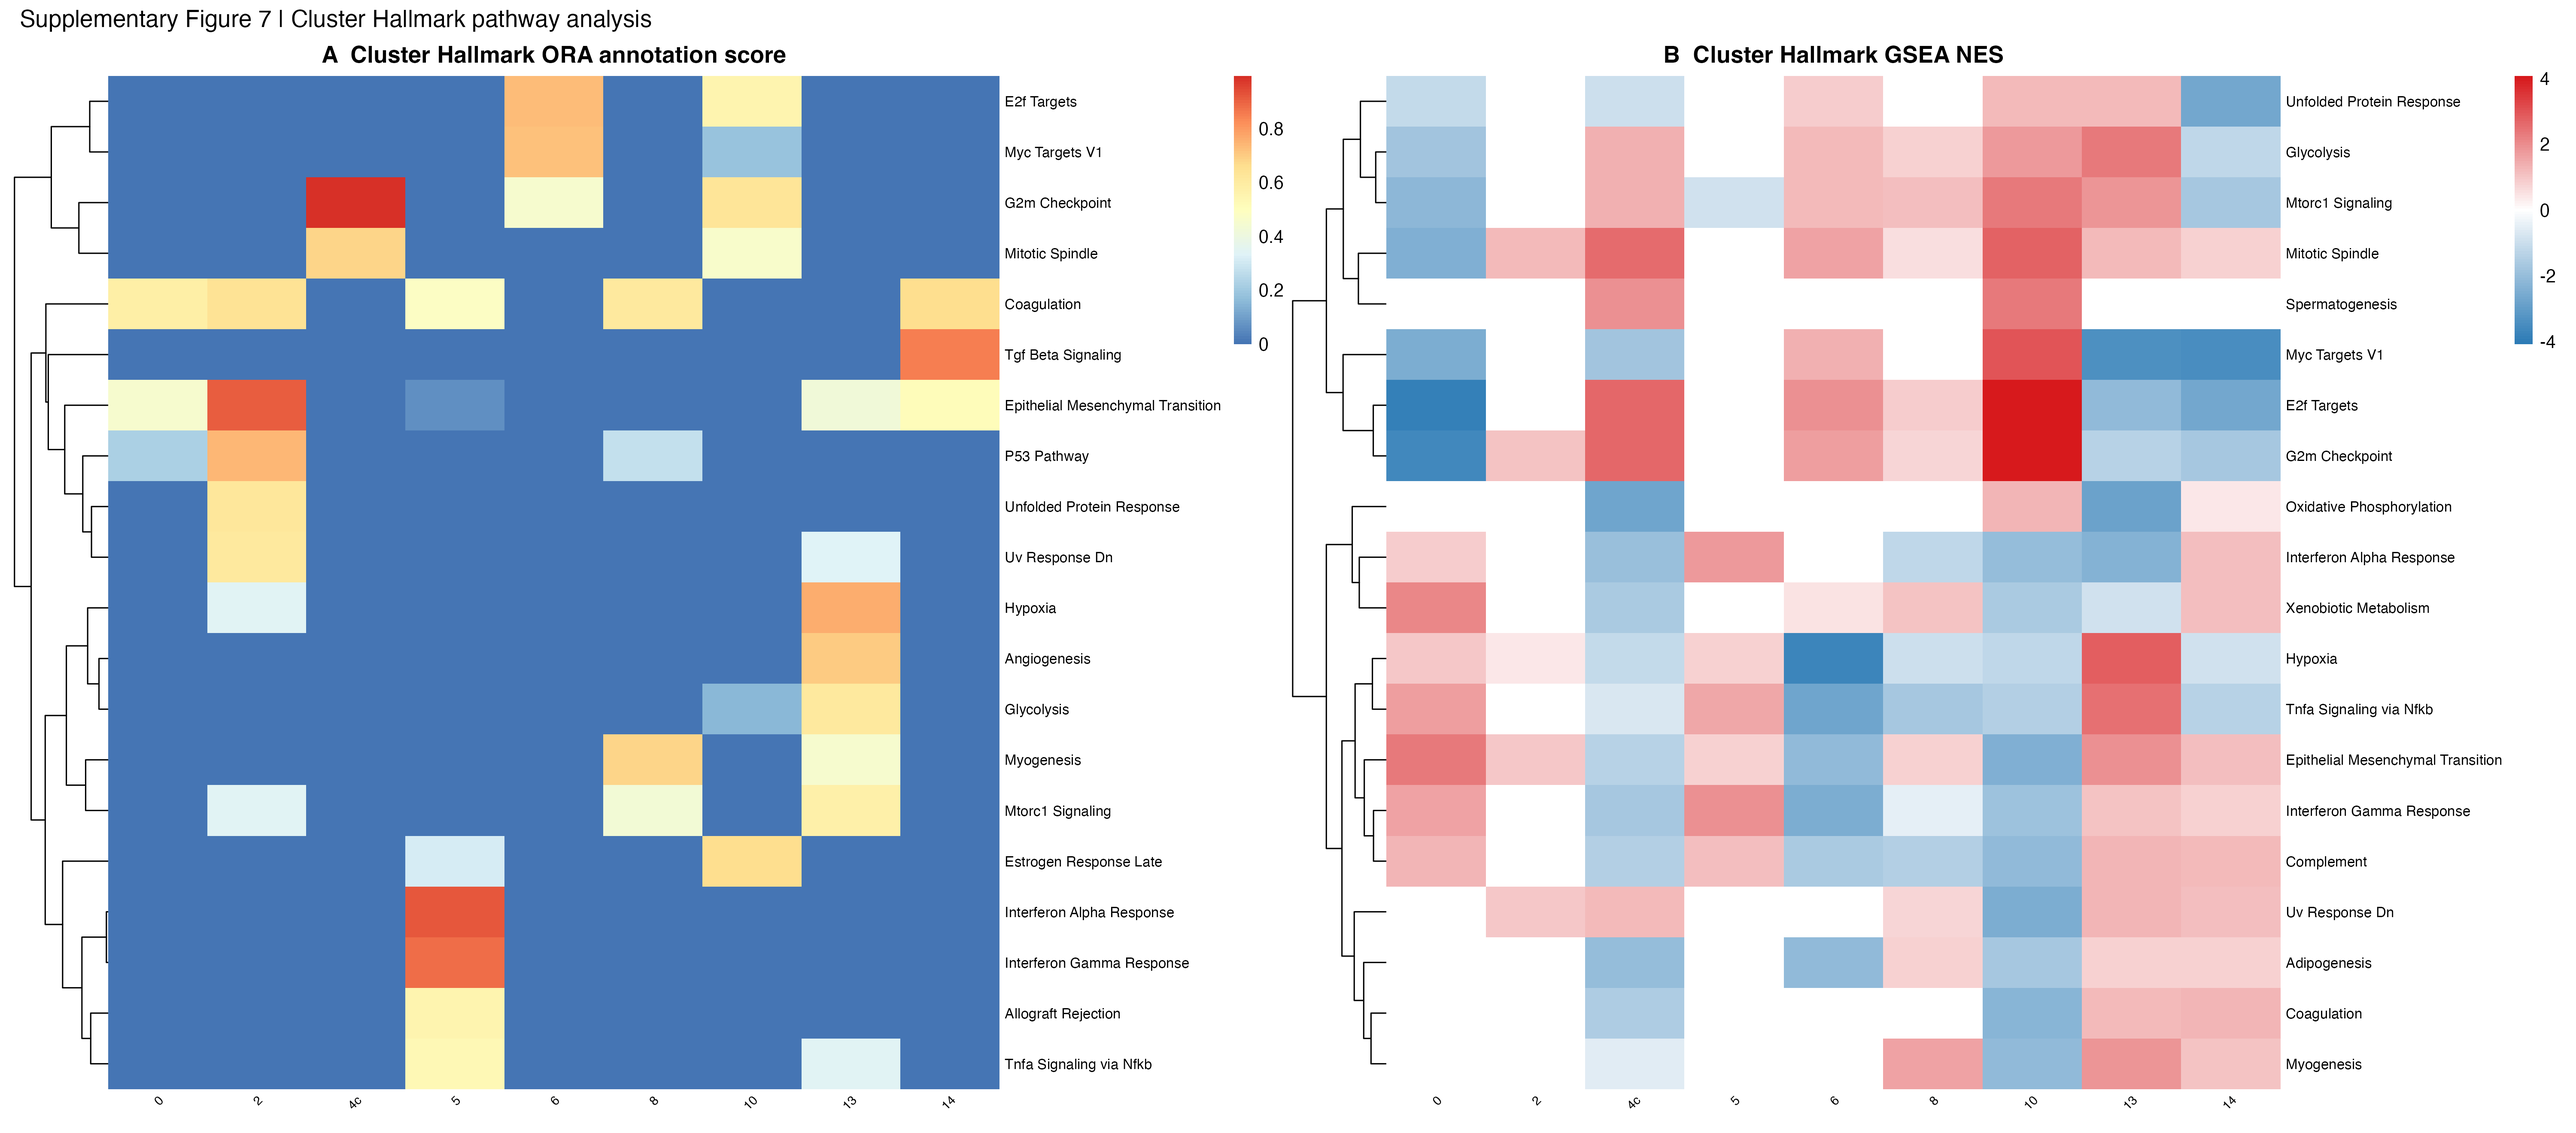
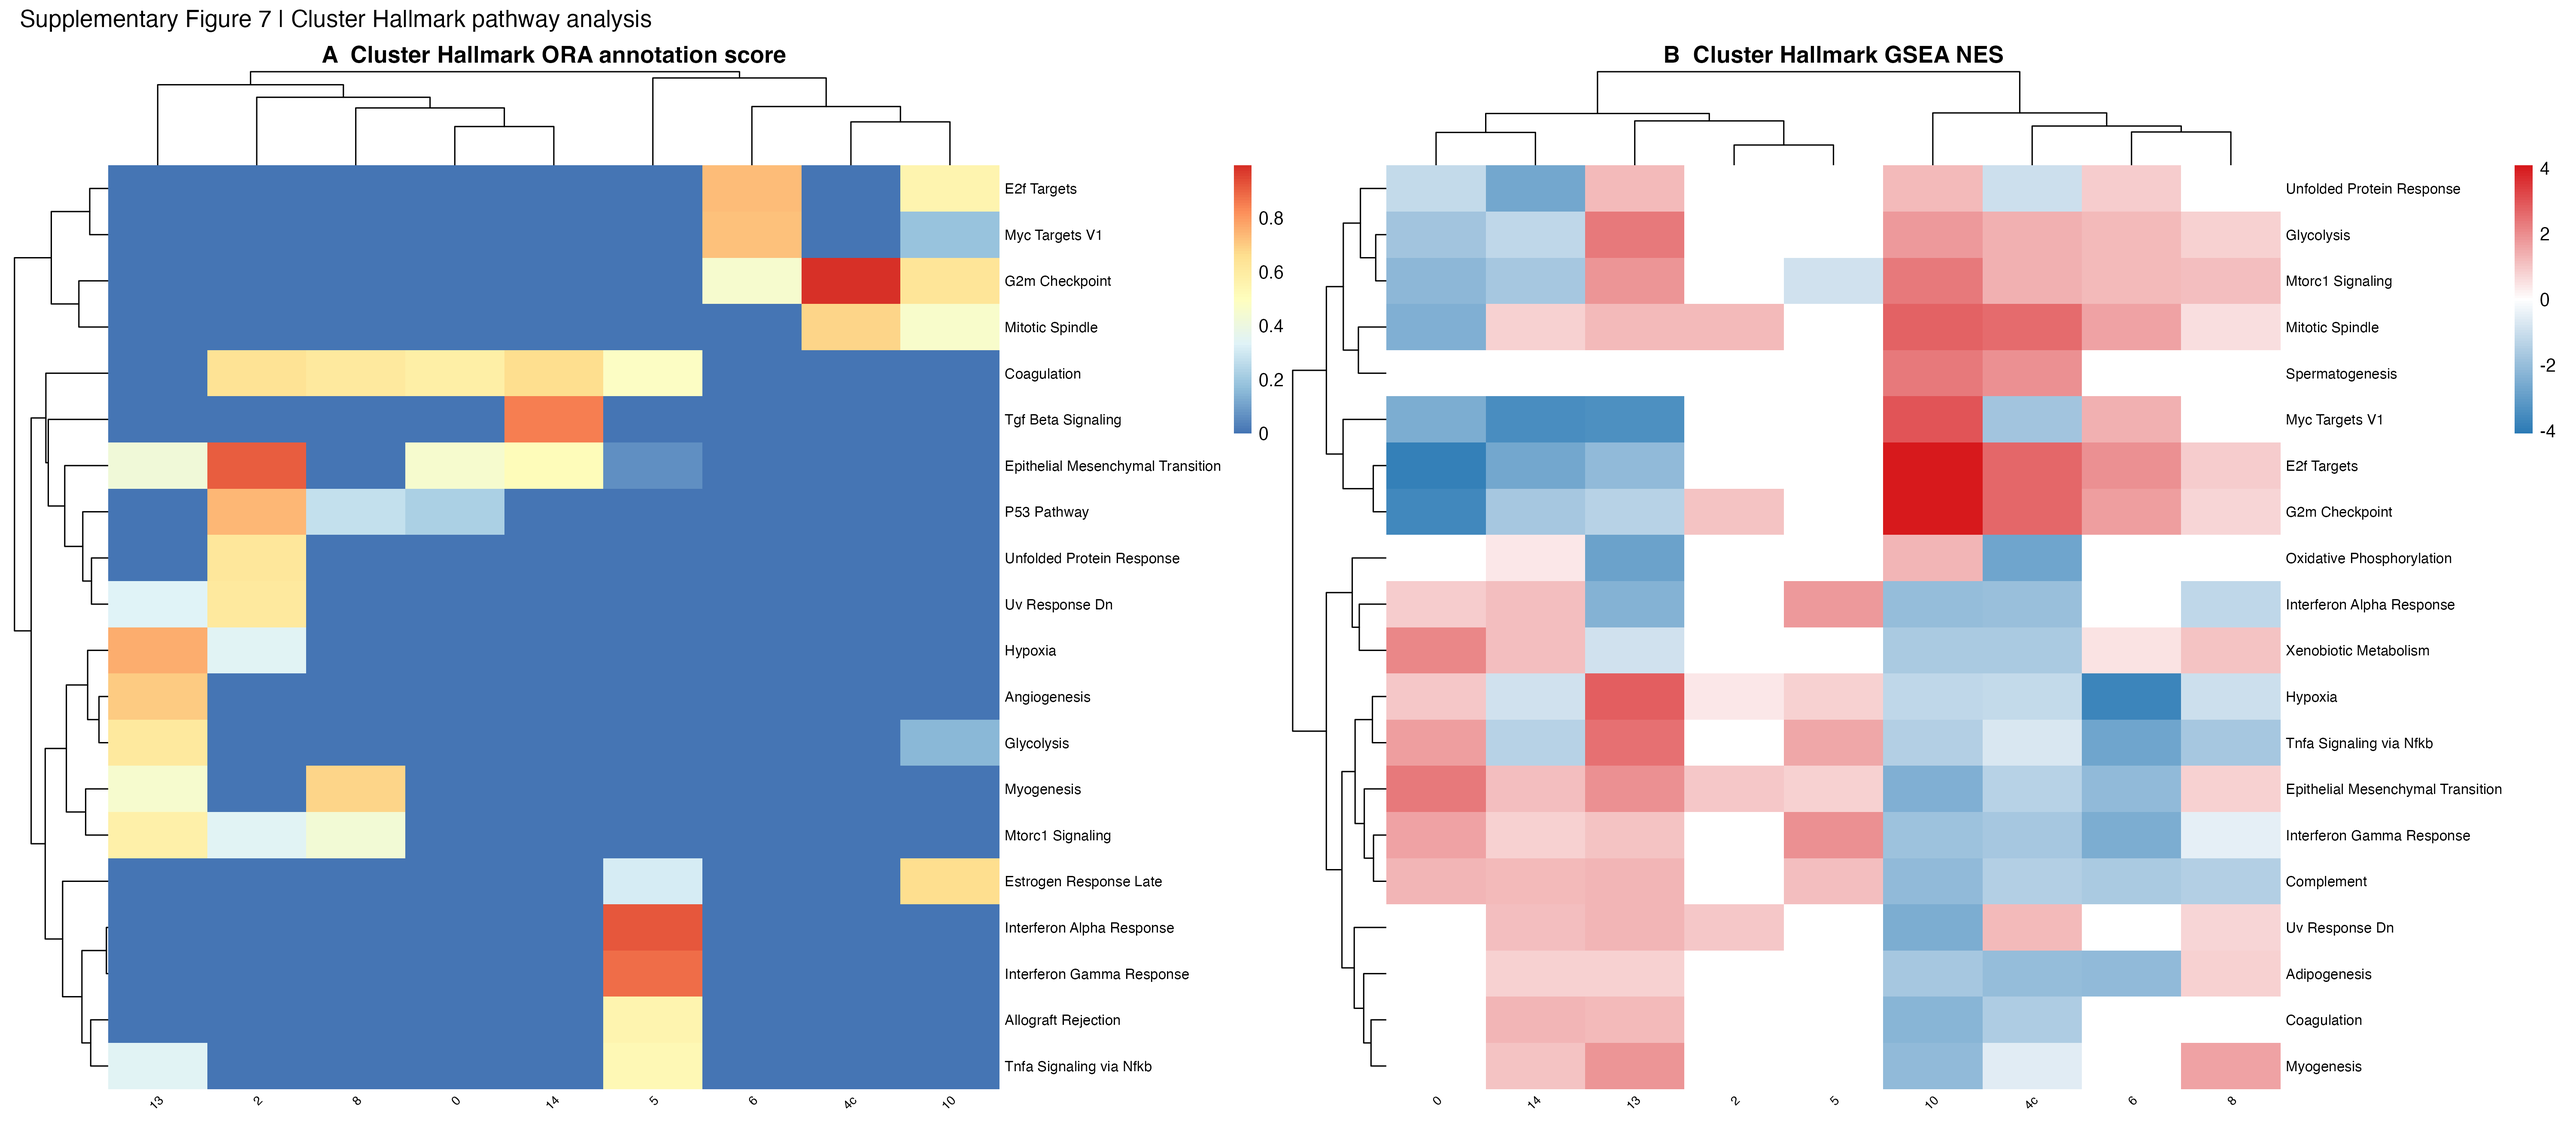
fix(si7): cluster heatmap rows and columns

diff --git a/Code/in-vivo/SI_figures/README.md b/Code/in-vivo/SI_figures/README.md
@@ -93,10 +93,11 @@ finite matrix values, and portable SHA-256 manifest.
 The renderer writes the exact composition estimates and test results to
 `metadata/normalized_composition_plot_data.tsv` and
 `metadata/normalized_composition_enrichment_tests.tsv`. Run the targeted
-statistical contract test with:
+statistical and SI7 heatmap contract tests with:
 
 ```bash
 Rscript Code/in-vivo/SI_figures/tests/test_normalized_composition.R
+Rscript Code/in-vivo/SI_figures/tests/test_si7_heatmap_clustering.R
 ```
 
 ## SI Figure 7 species policy
@@ -111,6 +112,10 @@ outputs from raw-refit run
 `grch_human_only_v2_20260729_raw_refit_retry3_si_figures`, using MSigDB
 2026.1.Hs Hallmark gene sets. The other nine SI4-7 frozen tables remain
 unchanged.
+
+Both SI7 heatmaps hierarchically cluster the pathway rows and cluster columns;
+the rendered panels therefore include dendrograms on both axes. Clustering
+changes display order only and does not modify the reviewed matrix values.
 
 This explicit filter replaces the previous mixed behavior, where species
 prefixes were stripped but symbol case was preserved before querying human
